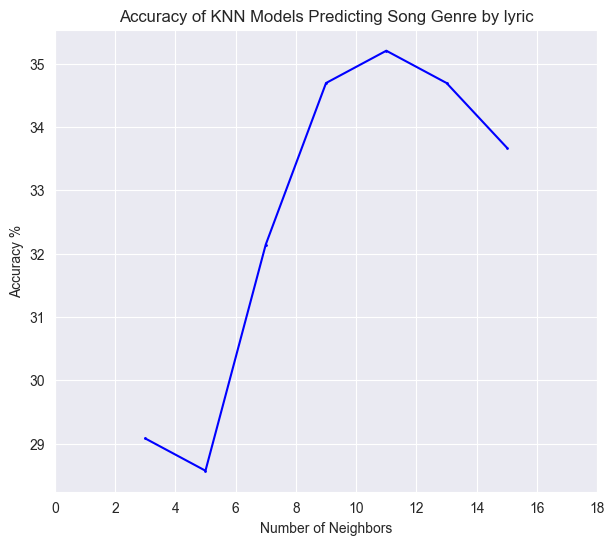
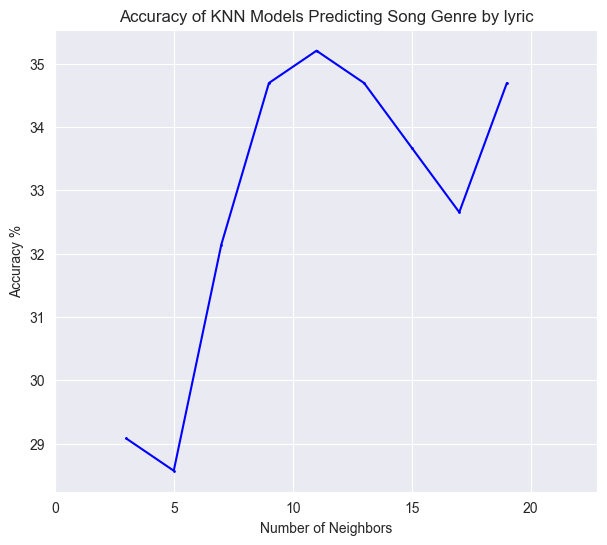
better results

diff --git a/LyricLibrary.py b/LyricLibrary.py
@@ -188,8 +188,8 @@ if __name__ == "__main__":
     # print(n_grams)
 
     sample_models = {
-        "knn": [3, 5, 7, 9, 11, 13, 15],
-        "forest": [2, 3, 4, 5, 6, 7]
+        "knn": [3, 5, 7, 9, 11, 13, 15, 17, 19],
+        "forest": [2, 3, 4, 5, 6, 7, 8, 9, 10, 11, 12, 13, 14, 15]
     }
     library.run_all_models(sample_models)
     print(library.knn_results)
